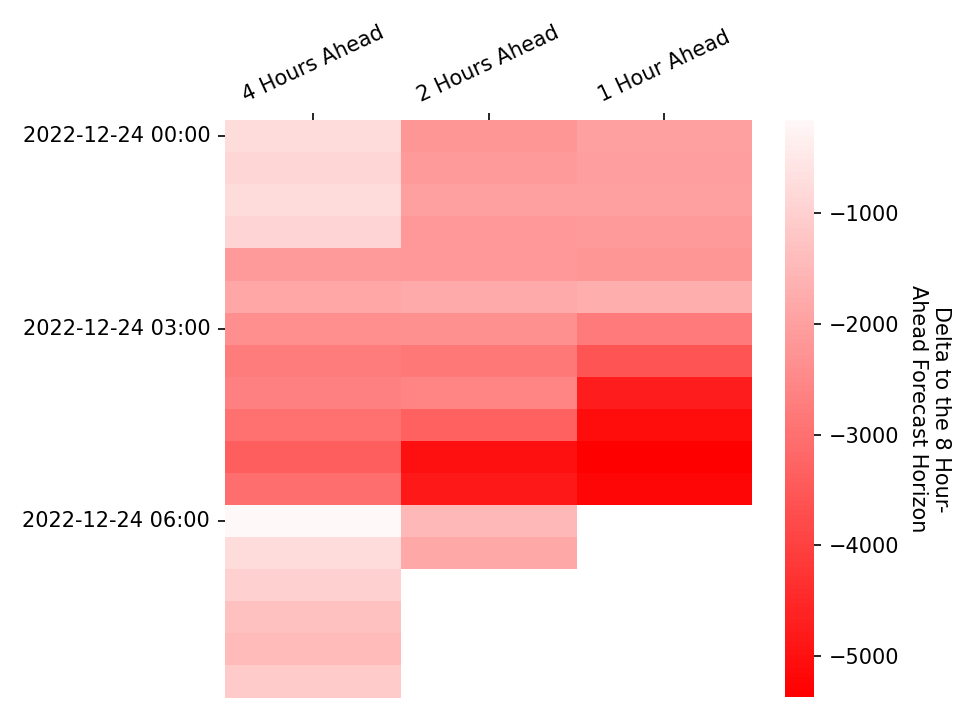
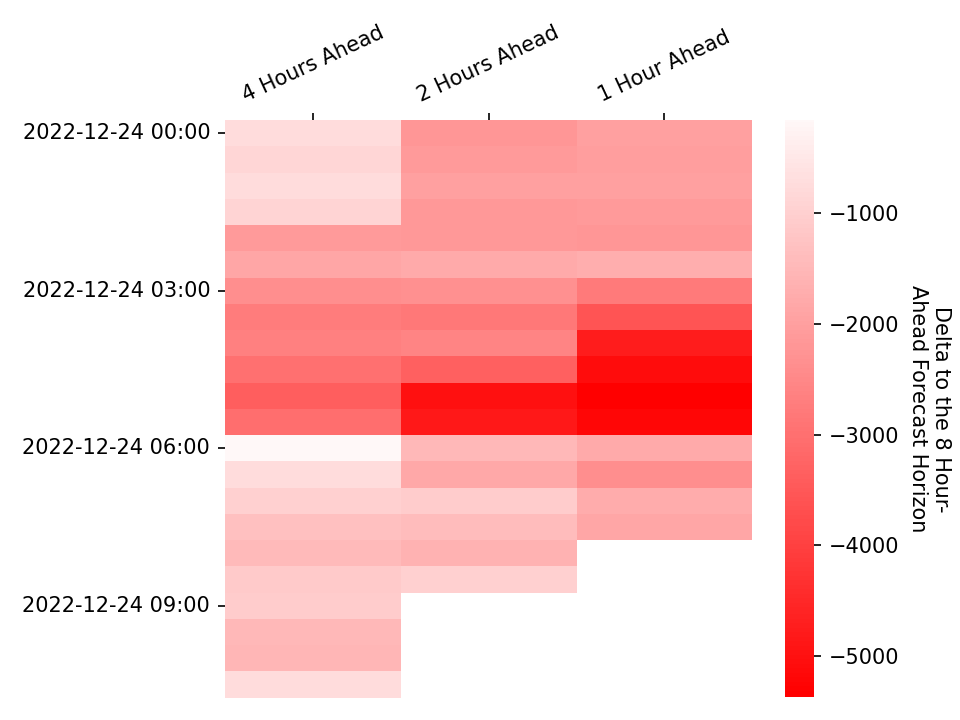
Apply automatic changes

diff --git a/docs/js/map.js b/docs/js/map.js
@@ -144,7 +144,7 @@ document.addEventListener("DOMContentLoaded", function() {
                 follow: 1
             });
             mymap.addControl(sliderControl);
-            sliderControl.startSlider(333);
+            sliderControl.startSlider(334);
         });
     });
 });

diff --git a/docs/visualisations.md b/docs/visualisations.md
@@ -60,7 +60,7 @@ In each settlement period the system operator publishes the de-rated margin fore
 * At 1200 hours on each calendar day for all Settlement Periods for which Gate Closure has not yet passed and which occur within the current Operational Day or the following Operational Day; and
 * At eight, four, two and one hour(s) prior to the beginning of the Settlement Period to which the De-Rated Margin Forecast relates.
 
-These figures will be updated on an hourly basis, the last update was at: 2022-12-24 06:40
+These figures will be updated on an hourly basis, the last update was at: 2022-12-24 07:10
 
 <br>
 
@@ -83,7 +83,7 @@ The following heatmap shows how the more recent de-rated margin forecasts deviat
 
 ### Power Output Map
 
-Last Updated: 2022-12-24 06:40
+Last Updated: 2022-12-24 07:10
 
 This map shows the power output of individual plants connected to the transmission grid as stated in their most recent Physical Notifications. This data can be retrieved through the *PHYBMDATA* BMRS stream, the out-turn data can be viewed one week later through the *B1610* stream. The scrollbar at the top of the map can be used to view how the generation sources have changed their output over the last week, the layer control can be used to toggle on/off the transmission network, and the plants themselves can be clicked to reveal additional information. The plant location data used in this map has been taking from a sister project, [the Power Station Dictionary](https://osuked.github.io/Power-Station-Dictionary/), which aims to link between data about individual power plants.
 
